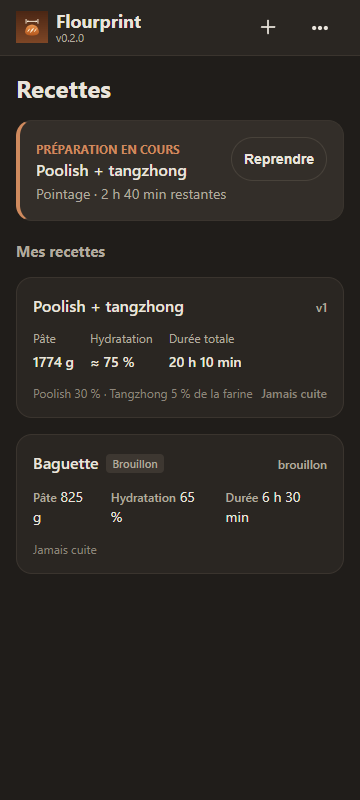
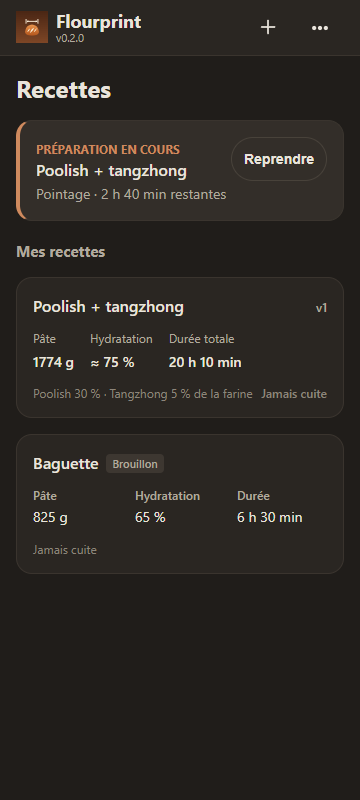
Publish revised four-screen Material 3 mockup for #35; retain v1 review

Changed region(s): [[0.6111, 0.5625, 0.9167, 0.6562], [0.3056, 0.5938, 0.55, 0.6562], [0.0917, 0.5938, 0.2139, 0.6562]]

diff --git a/index.html b/index.html
@@ -1,2 +1,2 @@
-<!doctype html><html lang="fr"><head><meta charset="utf-8"><meta name="viewport" content="width=device-width,initial-scale=1"><meta name="robots" content="noindex,nofollow"><title>Flourprint — maquettes v2</title><style>:root{font-family:system-ui,sans-serif;color:#29201b;background:#f8f4ef}body{margin:0;padding:24px}main{max-width:1140px;margin:auto}h1{font-size:24px;margin:0 0 8px}p{line-height:1.5;max-width:86ch}.note{color:#6b594b;font-size:14px}nav{display:flex;gap:8px;flex-wrap:wrap;margin:16px 0}button{padding:12px 20px;border:1px solid #b8a99c;background:white;border-radius:24px;color:inherit;font:inherit;cursor:pointer}button[aria-pressed=true]{background:#a9490a;color:white;border-color:#a9490a}a{color:#92420c}.screens{display:grid;grid-template-columns:repeat(2,360px);gap:24px}figure{margin:0}figcaption{padding:12px 0;font-size:16px;font-weight:600}img{width:360px;height:800px;display:block;border-radius:16px;box-shadow:0 4px 18px #44281122;max-width:100%}.links{display:flex;gap:12px;flex-wrap:wrap;font-size:14px;line-height:1.5;margin:12px 0}details{margin:24px 0}summary{cursor:pointer;padding:12px 0;font-size:18px;font-weight:600}.detail-grid{display:grid;grid-template-columns:repeat(2,360px);gap:24px}.pairs{display:flex;gap:24px;flex-wrap:wrap}.pair{margin:24px 0}h2{font-size:20px}html[data-theme=dark]{color:#e9e4dc;background:#201d1a}html[data-theme=dark] .note,html[data-theme=amoled] .note{color:#b1aa9f}html[data-theme=dark] a,html[data-theme=amoled] a{color:#e4a87f}html[data-theme=amoled]{color:#e9e4dc;background:#000}html[data-theme=dark] button,html[data-theme=amoled] button{color:#e9e4dc;background:#2a2622;border-color:#625b52}html[data-theme=dark] button[aria-pressed=true],html[data-theme=amoled] button[aria-pressed=true]{background:#cf8a5e;color:#201d1a}@media(max-width:800px){body{padding:16px}.screens,.detail-grid{grid-template-columns:minmax(0,360px)}.pairs{gap:16px}img{height:auto}figure{min-width:0;max-width:100%}}</style></head><body><main><h1>Flourprint — maquettes révisées v2</h1><p>Style conservé, informations et gestes restaurés. <strong>Quatre écrans en français à 360 × 800 px</strong> : liste, recette, modification et préparation. Le style est validé; cette organisation révisée attend la validation du propriétaire avant l’implémentation.</p><p class="note">Base comparée : dev c36f6bc, v0.2.0. Heure de démonstration : 9 h. Les saisies et actions illustrent le fonctionnement sans enregistrer de données réelles ni exécuter de modèle prédictif. Les conversions des ratios seront fournies par le domaine. Le cas au lait illustre la consultation sans ingrédient eau; l’éditeur présente la recette de référence.</p><nav aria-label="Thème"><button data-theme="light" aria-pressed="true">Clair</button><button data-theme="dark" aria-pressed="false">Sombre chaud</button><button data-theme="amoled" aria-pressed="false">AMOLED</button></nav><div class="links"><a data-route="" href="mockup.html">Ouvrir les quatre vues interactives</a><a data-route="recipe&amp;fixture=milk" href="mockup.html?screen=recipe&amp;fixture=milk&amp;theme=light">Cas au lait, sans ingrédient eau</a><a href="reviews/2026-10-12-v1/">Voir la première maquette</a></div><section class="screens">
+<!doctype html><html lang="fr"><head><meta charset="utf-8"><meta name="viewport" content="width=device-width,initial-scale=1"><meta name="robots" content="noindex,nofollow"><title>Flourprint — maquettes v2</title><style>:root{font-family:system-ui,sans-serif;color:#29201b;background:#f8f4ef}body{margin:0;padding:24px}main{max-width:1140px;margin:auto}h1{font-size:24px;margin:0 0 8px}p{line-height:1.5;max-width:86ch}.note{color:#6b594b;font-size:14px}nav{display:flex;gap:8px;flex-wrap:wrap;margin:16px 0}button{padding:12px 20px;border:1px solid #b8a99c;background:white;border-radius:24px;color:inherit;font:inherit;cursor:pointer}button[aria-pressed=true]{background:#a9490a;color:white;border-color:#a9490a}a{color:#92420c}.screens{display:grid;grid-template-columns:repeat(2,360px);gap:24px}figure{margin:0}figcaption{padding:12px 0;font-size:16px;font-weight:600}img{width:360px;height:800px;display:block;border-radius:16px;box-shadow:0 4px 18px #44281122;max-width:100%}.links{display:flex;gap:12px;flex-wrap:wrap;font-size:14px;line-height:1.5;margin:12px 0}details{margin:24px 0}summary{cursor:pointer;padding:12px 0;font-size:18px;font-weight:600}.detail-grid{display:grid;grid-template-columns:repeat(2,360px);gap:24px}.pairs{display:flex;gap:24px;flex-wrap:wrap}.pair{margin:24px 0}h2{font-size:20px}html[data-theme=dark]{color:#e9e4dc;background:#201d1a}html[data-theme=dark] .note,html[data-theme=amoled] .note{color:#b1aa9f}html[data-theme=dark] a,html[data-theme=amoled] a{color:#e4a87f}html[data-theme=amoled]{color:#e9e4dc;background:#000}html[data-theme=dark] button,html[data-theme=amoled] button{color:#e9e4dc;background:#2a2622;border-color:#625b52}html[data-theme=dark] button[aria-pressed=true],html[data-theme=amoled] button[aria-pressed=true]{background:#cf8a5e;color:#201d1a}@media(max-width:800px){body{padding:16px}.screens,.detail-grid{grid-template-columns:minmax(0,360px)}.pairs{gap:16px}img{height:auto}figure{min-width:0;max-width:100%}}</style></head><body><main><h1>Flourprint — maquettes révisées v2</h1><p>Style conservé, informations et gestes restaurés. <strong>Quatre écrans en français à 360 × 800 px</strong> : liste, recette, modification et préparation. Le style est validé; cette organisation révisée attend la validation du propriétaire avant l’implémentation.</p><p class="note">Base comparée : dev c36f6bc, v0.2.0. Heure de démonstration : 9 h. Les saisies et actions illustrent le fonctionnement sans enregistrer de données réelles ni exécuter de modèle prédictif. Les conversions des ratios seront fournies par le domaine. Le cas au lait illustre la consultation sans ingrédient eau; l’éditeur présente la recette de référence. Le brouillon Baguette est une entrée illustrative.</p><nav aria-label="Thème"><button data-theme="light" aria-pressed="true">Clair</button><button data-theme="dark" aria-pressed="false">Sombre chaud</button><button data-theme="amoled" aria-pressed="false">AMOLED</button></nav><div class="links"><a data-route="" href="mockup.html">Ouvrir les quatre vues interactives</a><a data-route="recipe&amp;fixture=milk" href="mockup.html?screen=recipe&amp;fixture=milk&amp;theme=light">Cas au lait, sans ingrédient eau</a><a href="reviews/2026-10-12-v1/">Voir la première maquette</a></div><section class="screens">
 <figure id="view-recipes"><figcaption>1. Liste des recettes</figcaption><a data-route="recipes" href="mockup.html?screen=recipes&amp;theme=light"><img data-proposal="recipes" src="proposal-recipes-light.png" alt="1. Liste des recettes" width="360" height="800"></a><div class="links"><a data-route="recipes" href="mockup.html?screen=recipes&amp;theme=light">Essayer cet écran</a></div></figure><figure id="view-recipe"><figcaption>2. Recette</figcaption><a data-route="recipe" href="mockup.html?screen=recipe&amp;theme=light"><img data-proposal="recipe" src="proposal-recipe-light.png" alt="2. Recette" width="360" height="800"></a><div class="links"><a data-route="recipe" href="mockup.html?screen=recipe&amp;theme=light">Essayer cet écran</a></div></figure><figure id="view-edit"><figcaption>3. Modifier la recette</figcaption><a data-route="edit" href="mockup.html?screen=edit&amp;theme=light"><img data-proposal="edit" src="proposal-edit-light.png" alt="3. Modifier la recette" width="360" height="800"></a><div class="links"><a data-route="edit" href="mockup.html?screen=edit&amp;theme=light">Essayer cet écran</a></div></figure><figure id="view-preparation"><figcaption>4. Préparation en cours</figcaption><a data-route="preparation" href="mockup.html?screen=preparation&amp;theme=light"><img data-proposal="preparation" src="proposal-preparation-light.png" alt="4. Préparation en cours" width="360" height="800"></a><div class="links"><a data-route="preparation" href="mockup.html?screen=preparation&amp;theme=light">Essayer cet écran</a></div></figure></section><details open><summary>Explorer l’éditeur et le journal</summary><div class="links"><a data-route="edit&amp;section=comp" href="mockup.html?screen=edit&amp;section=comp&amp;theme=light">Composition</a><a data-route="edit&amp;section=parts" href="mockup.html?screen=edit&amp;section=parts&amp;theme=light">Composants et ratios</a><a data-route="edit&amp;section=steps" href="mockup.html?screen=edit&amp;section=steps&amp;theme=light">Étapes et cuisson</a><a data-route="edit&amp;section=res" href="mockup.html?screen=edit&amp;section=res&amp;theme=light">Résultat et pesées</a></div><div class="detail-grid"><figure><figcaption>Composants et préferments</figcaption><img data-proposal="edit-components" src="proposal-edit-components-light.png" alt="Composants et préferments" width="360" height="800"></figure><figure><figcaption>Les neuf étapes</figcaption><img data-proposal="edit-steps" src="proposal-edit-steps-light.png" alt="Les neuf étapes" width="360" height="800"></figure><figure><figcaption>Résultat et pesées</figcaption><img data-proposal="edit-outcome" src="proposal-edit-outcome-light.png" alt="Résultat et pesées" width="360" height="800"></figure><figure><figcaption>Étapes à venir et journal</figcaption><img data-proposal="preparation-journal" src="proposal-preparation-journal-light.png" alt="Étapes à venir et journal" width="360" height="800"></figure></div></details><details><summary>Comparer avec le dev actuel</summary><section class="pair"><h2>Liste</h2><div class="pairs"><figure><figcaption>Avant — dev c36f6bc</figcaption><img data-before="recipes" src="before-recipes-light.png" alt="Avant : Liste"></figure><figure><figcaption>Proposition v2</figcaption><img data-proposal="recipes" src="proposal-recipes-light.png" alt="Proposition : Liste"></figure></div></section><section class="pair"><h2>Recette</h2><div class="pairs"><figure><figcaption>Avant — dev c36f6bc</figcaption><img data-before="recipe" src="before-recipe-light.png" alt="Avant : Recette"></figure><figure><figcaption>Proposition v2</figcaption><img data-proposal="recipe" src="proposal-recipe-light.png" alt="Proposition : Recette"></figure></div></section><section class="pair"><h2>Modification</h2><div class="pairs"><figure><figcaption>Avant — dev c36f6bc</figcaption><img data-before="edit" src="before-edit-light.png" alt="Avant : Modification"></figure><figure><figcaption>Proposition v2</figcaption><img data-proposal="edit" src="proposal-edit-light.png" alt="Proposition : Modification"></figure></div></section><section class="pair"><h2>Préparation</h2><div class="pairs"><figure><figcaption>Avant — dev c36f6bc</figcaption><img data-before="preparation" src="before-preparation-light.png" alt="Avant : Préparation"></figure><figure><figcaption>Proposition v2</figcaption><img data-proposal="preparation" src="proposal-preparation-light.png" alt="Proposition : Préparation"></figure></div></section></details><p class="note">AMOLED : la comparaison utilise le sombre actuel, car le dev comparé n’a pas de sélecteur AMOLED. La validation de cette maquette ne vaut pas validation native Android. Les deux prolongations de +15 min et les choix de durée illustrent des instantanés fixes; le moteur réel sera branché pendant l’implémentation.</p></main><script>document.querySelectorAll('[data-theme]').forEach(b=>b.onclick=()=>{const theme=b.dataset.theme;document.documentElement.dataset.theme=theme;document.querySelectorAll('[data-theme]').forEach(x=>x.setAttribute('aria-pressed',String(x===b)));document.querySelectorAll('[data-proposal]').forEach(i=>i.src='proposal-'+i.dataset.proposal+'-'+theme+'.png');document.querySelectorAll('[data-before]').forEach(i=>i.src='before-'+i.dataset.before+'-'+(theme==='amoled'?'dark':theme)+'.png');document.querySelectorAll('[data-route]').forEach(a=>a.href='mockup.html?'+(a.dataset.route?'screen='+a.dataset.route+'&':'')+'theme='+theme);});</script></body></html>

diff --git a/review-support.js b/review-support.js
@@ -77,3 +77,5 @@ document.addEventListener('DOMContentLoaded',()=>{const bar=document.querySelect
 document.addEventListener('DOMContentLoaded',()=>{document.querySelectorAll('#edit-section-parts select').forEach(select=>{const option=select.options[select.selectedIndex];if(option&&option.textContent.includes('du composant')){const full=option.textContent;option.textContent='Farine à pain';const hint=document.createElement('span');hint.className='value-subordinate';hint.textContent=full.replace('Farine à pain (','').replace(/\)$/,'');select.after(hint);}});});
 
 document.addEventListener('DOMContentLoaded',()=>{const q=new URLSearchParams(location.search);if(q.get('screen')==='edit'&&['comp','parts','steps','res'].includes(q.get('section')))switchEditSection(q.get('section'));});
+
+document.addEventListener('DOMContentLoaded',()=>{document.querySelectorAll('#container-recipes span').forEach(e=>{if(e.textContent.trim()==='brouillon')e.remove();});});

diff --git a/mockup.html b/mockup.html
@@ -152,6 +152,9 @@
     [hidden] { display: none !important; }
     .editable-step > summary::after { content: '⌄'; margin-left: 8px; font-size: 18px; }
     .editable-step[open] > summary::after { content: '⌃'; }
+  
+    .card-interactive .type-body-medium[style*="display: flex"] { display: grid !important; grid-template-columns: repeat(3,minmax(0,1fr)); gap: 12px !important; }
+    .card-interactive .type-body-medium > div > .type-label-medium { display: block; margin-bottom: 4px; }
   </style>
 </head>
 <body>
